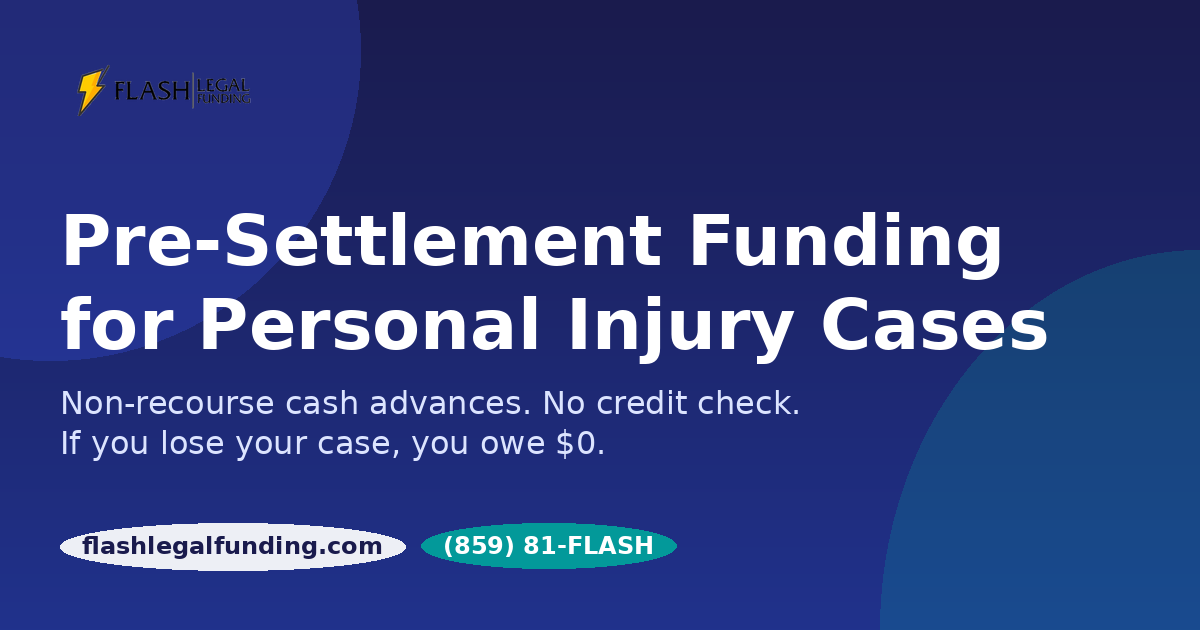
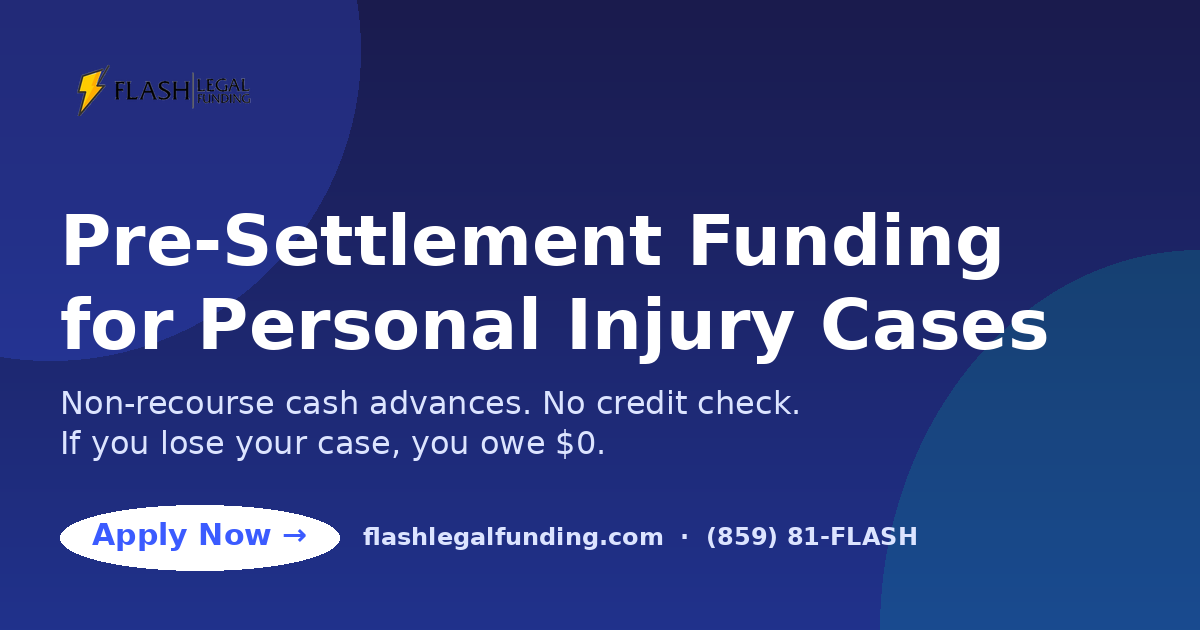
OG image: add Apply Now CTA button; shorten home page title
- Adds explicit white "Apply Now →" pill button on the OG image
  to satisfy social-card validators looking for a CTA. Phone +
  domain moved to a single info line beside the button.
- Shortens home page <title> from 84 to 61 chars (validator's
  optimal range is 50-60); kept brand suffix for recognition.

Changed region(s): [[0.0308, 0.7841, 0.7708, 0.9048]]

diff --git a/_site/index.html b/_site/index.html
@@ -3,7 +3,7 @@
 <head>
   <meta charset="utf-8" />
   <meta name="viewport" content="width=device-width, initial-scale=1" />
-  <title>Non-Recourse Pre-Settlement Funding for Personal Injury Cases | Flash Legal Funding</title>
+  <title>Pre-Settlement Funding for Injury Cases | Flash Legal Funding</title>
   <meta name="description" content="Get non-recourse pre-settlement funding for personal injury cases. No credit check, no monthly payments. Car accidents, slip and fall, work injuries. If you lose, you owe $0. Apply in minutes." />
   <meta name="robots" content="index, follow, max-snippet:-1, max-image-preview:large" />
   <meta name="keywords" content="pre-settlement funding, non-recourse lawsuit funding, personal injury cash advance, lawsuit loan, settlement funding, litigation financing, car accident funding, slip and fall funding, no credit check lawsuit funding" />

diff --git a/index.html b/index.html
@@ -3,7 +3,7 @@
 <head>
   <meta charset="utf-8" />
   <meta name="viewport" content="width=device-width, initial-scale=1" />
-  <title>Non-Recourse Pre-Settlement Funding for Personal Injury Cases | Flash Legal Funding</title>
+  <title>Pre-Settlement Funding for Injury Cases | Flash Legal Funding</title>
   <meta name="description" content="Get non-recourse pre-settlement funding for personal injury cases. No credit check, no monthly payments. Car accidents, slip and fall, work injuries. If you lose, you owe $0. Apply in minutes." />
   <meta name="robots" content="index, follow, max-snippet:-1, max-image-preview:large" />
   <meta name="keywords" content="pre-settlement funding, non-recourse lawsuit funding, personal injury cash advance, lawsuit loan, settlement funding, litigation financing, car accident funding, slip and fall funding, no credit check lawsuit funding" />

diff --git a/lib/generate-og-image.py b/lib/generate-og-image.py
@@ -58,31 +58,34 @@ draw.text(
     fill=(220, 228, 255),
 )
 
-chip_text = "flashlegalfunding.com"
-chip_bbox = draw.textbbox((0, 0), chip_text, font=f_chip)
-cw = chip_bbox[2] - chip_bbox[0]
-ch = chip_bbox[3] - chip_bbox[1]
-pad_x, pad_y = 22, 12
-chip_x = 60
-chip_y = H - 60 - (ch + pad_y * 2)
-draw.rounded_rectangle(
-    (chip_x, chip_y, chip_x + cw + pad_x * 2, chip_y + ch + pad_y * 2),
-    radius=999,
-    fill=(255, 255, 255, 235),
-)
-draw.text((chip_x + pad_x, chip_y + pad_y - 4), chip_text, font=f_chip, fill=BRAND_DARK)
+f_cta = ImageFont.truetype(bold, 30)
 
-phone_text = "(859) 81-FLASH"
-phone_bbox = draw.textbbox((0, 0), phone_text, font=f_chip)
-pw = phone_bbox[2] - phone_bbox[0]
-ph = phone_bbox[3] - phone_bbox[1]
-phone_x = chip_x + cw + pad_x * 2 + 16
+cta_text = "Apply Now →"
+cta_bbox = draw.textbbox((0, 0), cta_text, font=f_cta)
+ctw = cta_bbox[2] - cta_bbox[0]
+cth = cta_bbox[3] - cta_bbox[1]
+cta_pad_x, cta_pad_y = 32, 18
+cta_x = 60
+cta_y = H - 60 - (cth + cta_pad_y * 2)
 draw.rounded_rectangle(
-    (phone_x, chip_y, phone_x + pw + pad_x * 2, chip_y + ph + pad_y * 2),
+    (cta_x, cta_y, cta_x + ctw + cta_pad_x * 2, cta_y + cth + cta_pad_y * 2),
     radius=999,
-    fill=(0, 165, 156, 230),
+    fill=WHITE,
 )
-draw.text((phone_x + pad_x, chip_y + pad_y - 4), phone_text, font=f_chip, fill=WHITE)
+draw.text(
+    (cta_x + cta_pad_x, cta_y + cta_pad_y - 6),
+    cta_text,
+    font=f_cta,
+    fill=BRAND,
+)
+
+info_text = "flashlegalfunding.com  ·  (859) 81-FLASH"
+info_bbox = draw.textbbox((0, 0), info_text, font=f_chip)
+iw = info_bbox[2] - info_bbox[0]
+ih = info_bbox[3] - info_bbox[1]
+info_x = cta_x + ctw + cta_pad_x * 2 + 24
+info_y = cta_y + (cth + cta_pad_y * 2 - ih) // 2 - 4
+draw.text((info_x, info_y), info_text, font=f_chip, fill=(220, 228, 255))
 
 img.save("assets/og-image.png", "PNG", optimize=True)
 print(f"wrote assets/og-image.png  {img.size}")

diff --git a/_site/index.md b/_site/index.md
@@ -1,4 +1,4 @@
-# Non-Recourse Pre-Settlement Funding for Personal Injury Cases | Flash Legal Funding
+# Pre-Settlement Funding for Injury Cases | Flash Legal Funding
 
 > Get non-recourse pre-settlement funding for personal injury cases. No credit check, no monthly payments. Car accidents, slip and fall, work injuries. If you lose, you owe $0. Apply in minutes.
 
